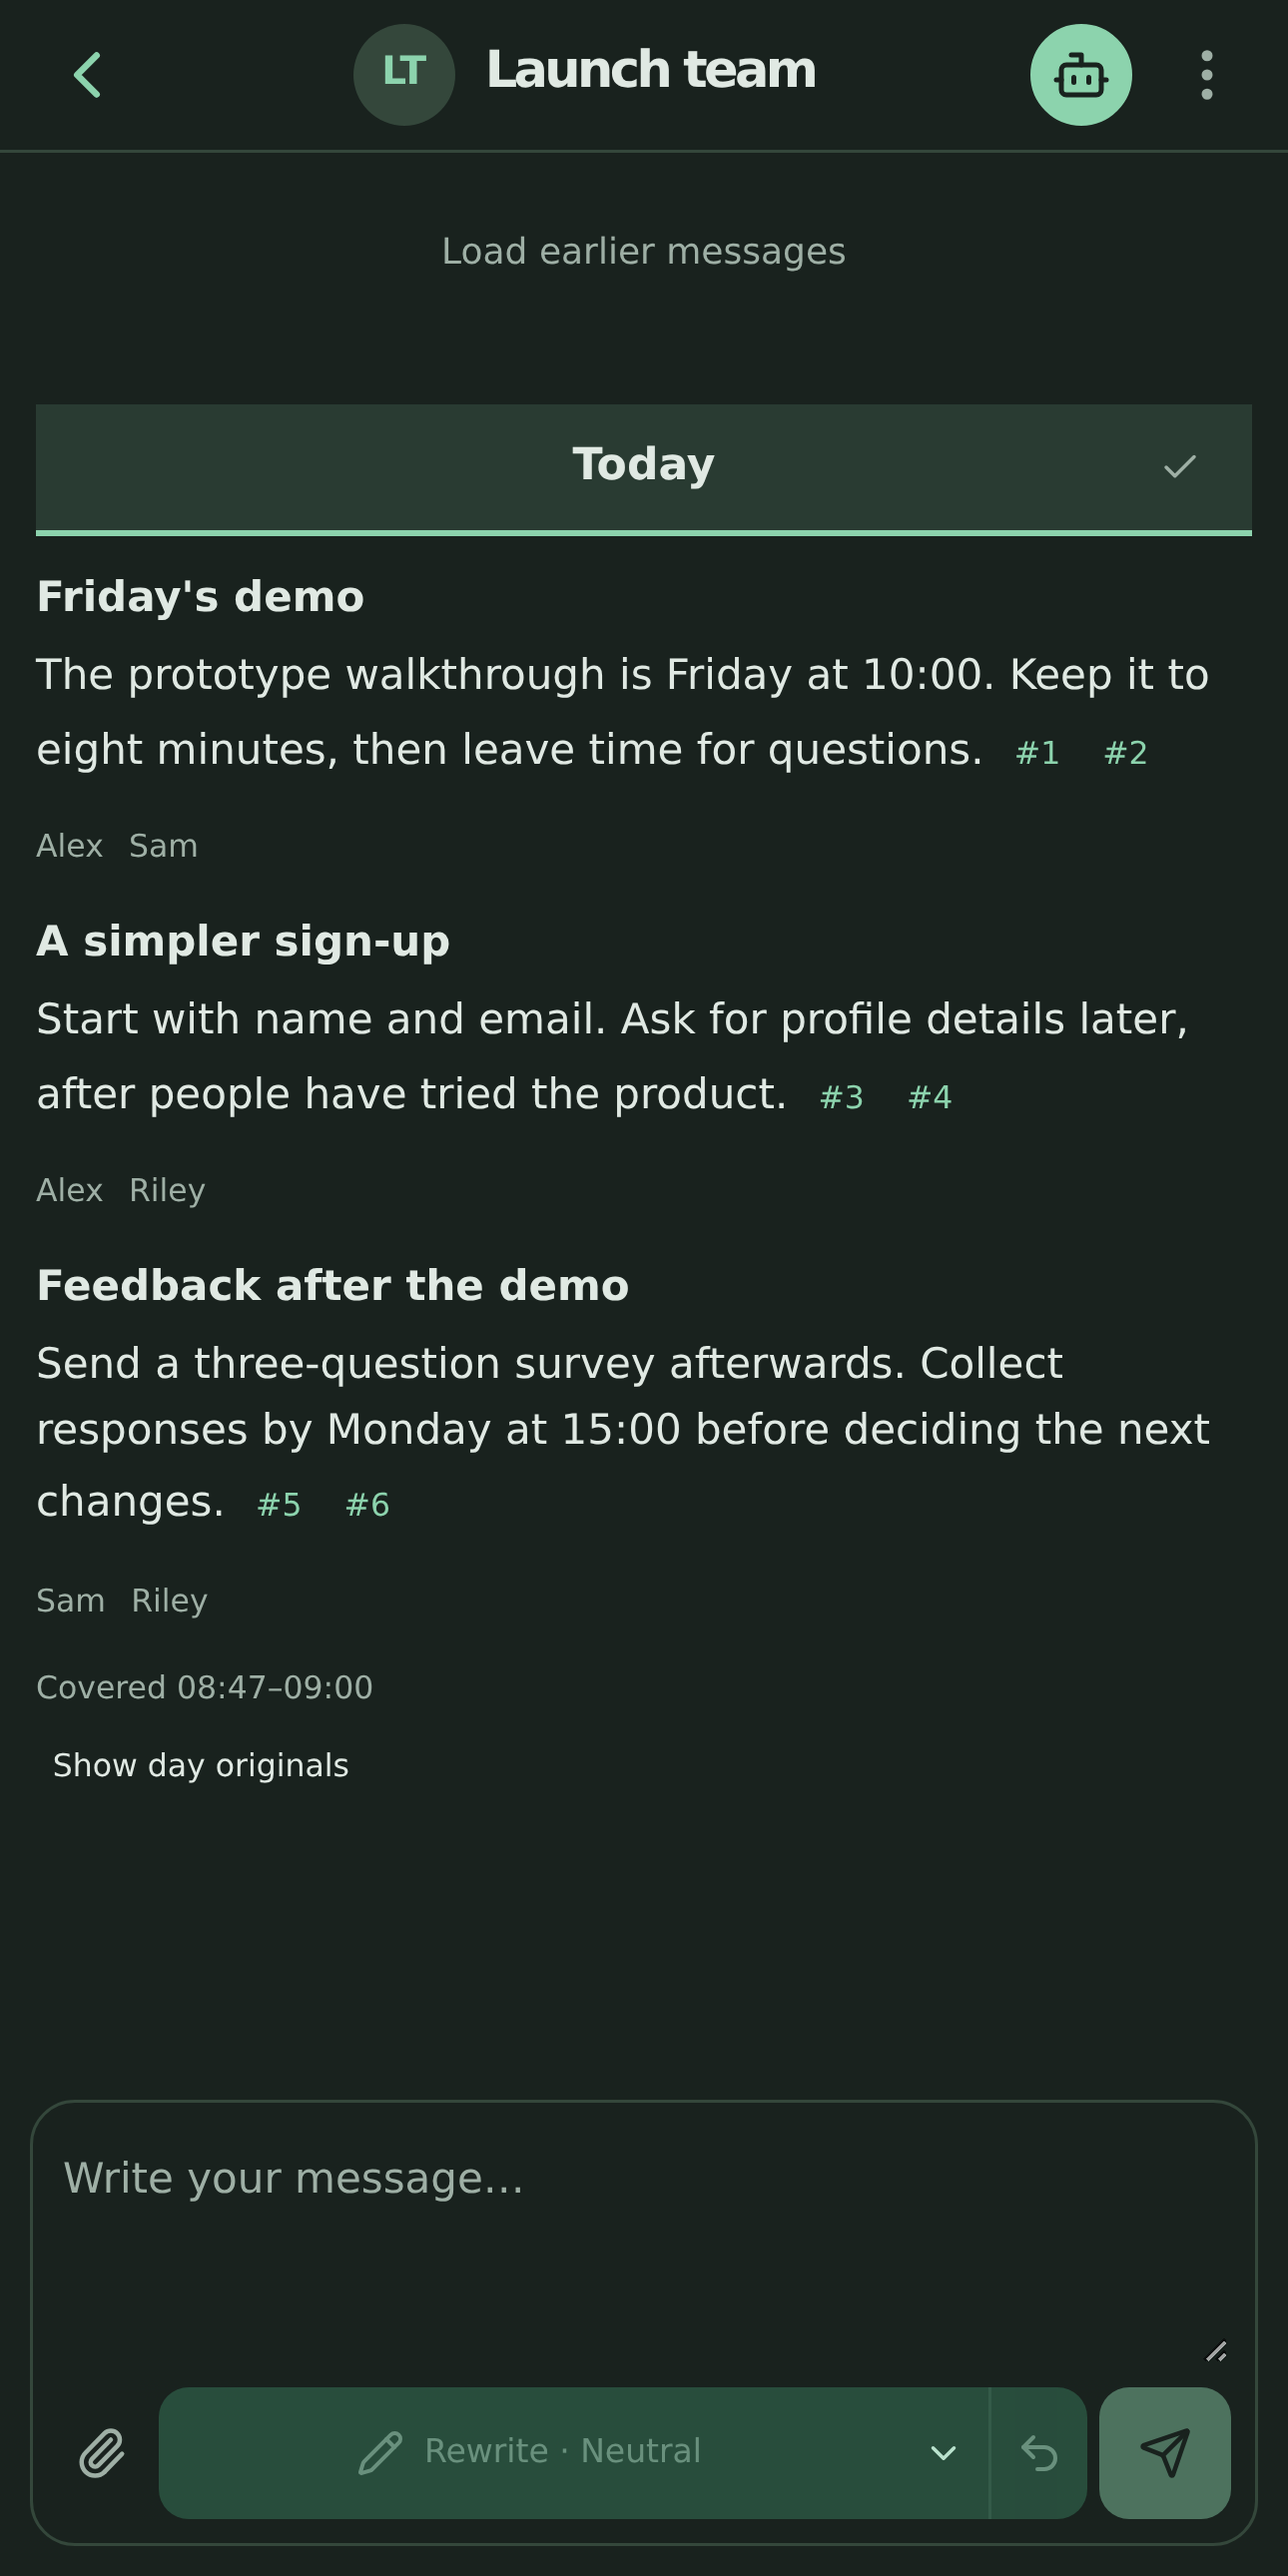
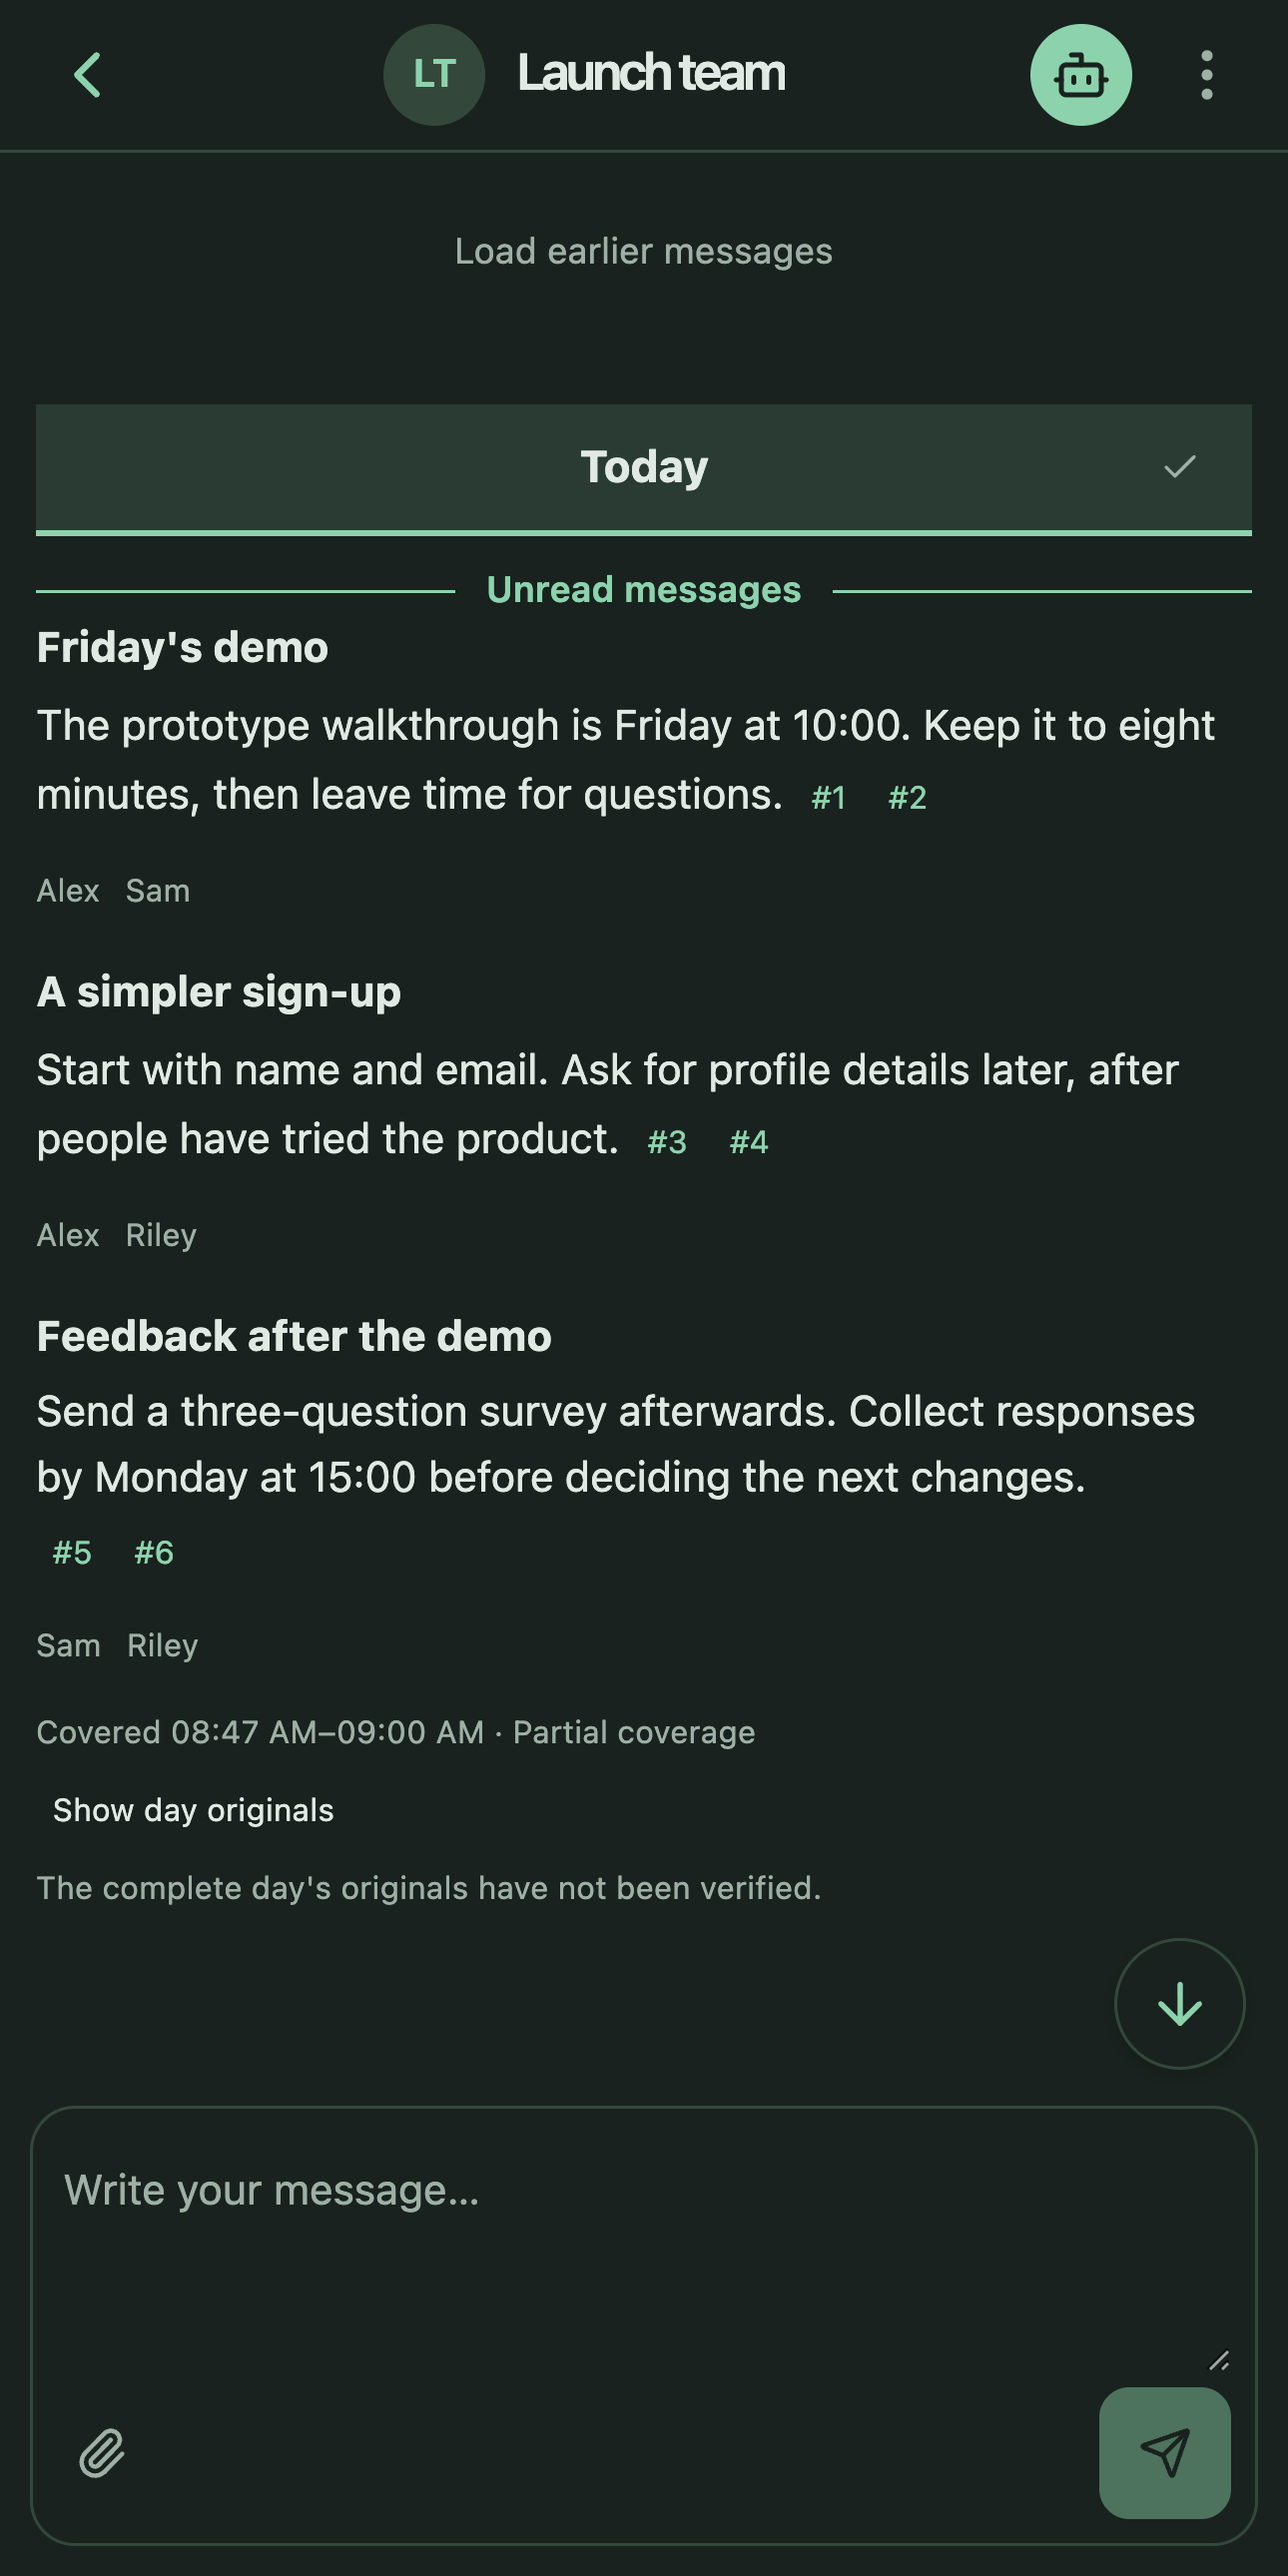
Retake the README screenshots with Softened and Suggestions

diff --git a/README.md b/README.md
@@ -24,10 +24,10 @@ Python service. Enloq comes from *en* (縁, human connection) and *loqui*
   <tbody>
     <tr>
       <td width="33%" valign="top">
-        <a href="docs/screenshots/enloq-reading.png"><img src="docs/screenshots/enloq-reading.png" width="270" alt="Enloq conversation showing a softened message, labeled Calmed in this capture, with the original available through the AI view toggle"></a>
+        <a href="docs/screenshots/enloq-reading.png"><img src="docs/screenshots/enloq-reading.png" width="270" alt="Enloq conversation showing a softened message, marked Softened, with the original available through the AI view toggle"></a>
       </td>
       <td width="33%" valign="top">
-        <a href="docs/screenshots/enloq-reply.png"><img src="docs/screenshots/enloq-reply.png" width="270" alt="Enloq reply suggestions with Accept, Decline and Later options above an edited draft and a separate Send button"></a>
+        <a href="docs/screenshots/enloq-reply.png"><img src="docs/screenshots/enloq-reply.png" width="270" alt="Enloq reply suggestions with Accept, Decline and Later options above an edited draft, with separate Suggestions and Send buttons"></a>
       </td>
       <td width="33%" valign="top">
         <a href="docs/screenshots/enloq-briefing.png"><img src="docs/screenshots/enloq-briefing.png" width="270" alt="Enloq daily group briefing with topic summaries, participants and source links"></a>
@@ -44,9 +44,7 @@ Python service. Enloq comes from *en* (縁, human connection) and *loqui*
 *Open any screenshot at full size. These are high-resolution captures of the
 real phone-width web interface, using authored synthetic conversations and
 prepared outputs. They demonstrate presentation, not model quality, live
-Telegram delivery or native-device acceptance. They were taken on 24 October
-2026, before outgoing Rewrite was removed: the composer's Rewrite · Neutral
-button now reads Suggestions, and the Calmed label now reads Softened.*
+Telegram delivery or native-device acceptance.*
 
 ## What it does
 
